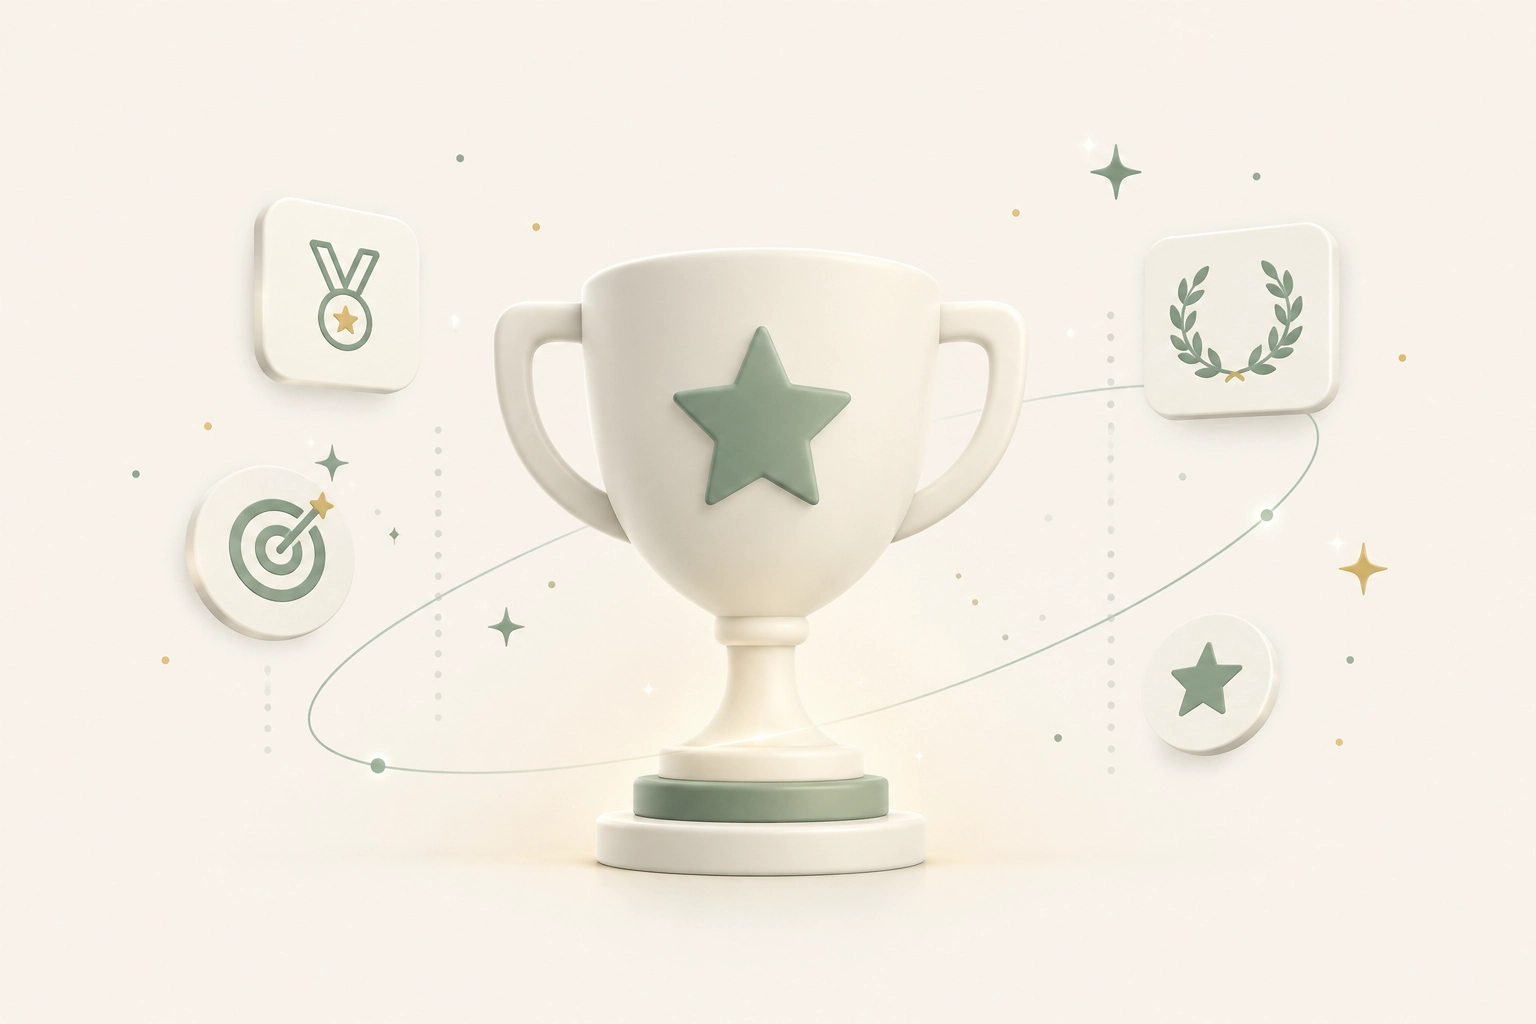
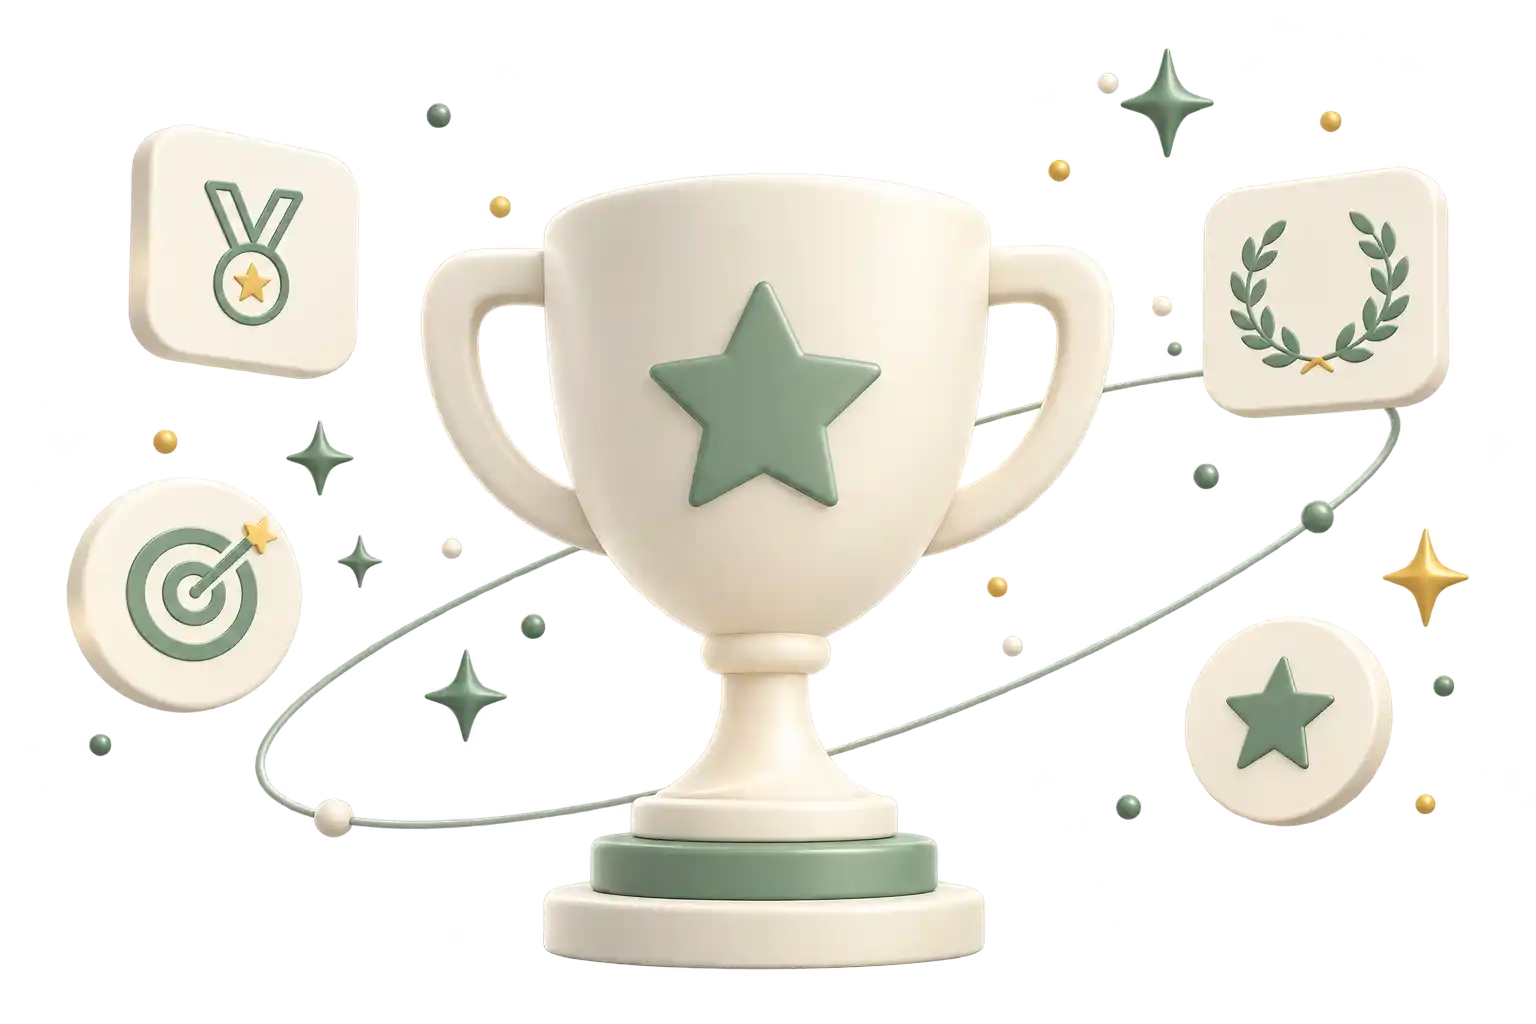
feat: enhance AchievementLearningGrid with search and filter functionality, update achievement data structure

diff --git a/src/data/achievementData.ts b/src/data/achievementData.ts
@@ -4,14 +4,20 @@ import type { HeaderData } from '@/types/header';
 import type { HeroImg } from '@/types/hero';
 import { Award, type LucideIcon } from 'lucide-react';
 import type { IconType } from 'react-icons/lib';
-import { IoDocumentTextOutline } from 'react-icons/io5';
+import {
+  IoBookOutline,
+  IoDocumentTextOutline,
+  IoExtensionPuzzleOutline,
+} from 'react-icons/io5';
 import { RxGear } from 'react-icons/rx';
-import { IoBookOutline } from 'react-icons/io5';
 import ahademy from '@/assets/images/certificates/ahademy.webp';
+
+type Category = 'roadmap' | 'setup' | 'logic' | 'reference';
 
 export interface Learning {
   id: string;
   title: string;
+  category: Category;
   description: string;
   linkNotion: string;
   tags?: string[];
@@ -64,7 +70,8 @@ export const achievementData: AchievementData = {
   learnings: [
     {
       id: 'learning-backend-typescript',
-      title: 'Backend — TypeScript',
+      title: 'Backend TypeScript',
+      category: 'roadmap',
       linkNotion:
         'https://app.notion.com/p/Learning-Backend-TypeScript-Version-37dda22dd34180889049e8d3dba8f8ce?source=copy_link',
       tags: ['Backend', 'TypeScript', 'Node.js'],
@@ -77,6 +84,7 @@ export const achievementData: AchievementData = {
     {
       id: 'learning-react-hook-form',
       title: 'React Hook Form',
+      category: 'roadmap',
       description:
         'Building forms in React, handling form, validation, and integration with Zod.',
       linkNotion:
@@ -87,20 +95,9 @@ export const achievementData: AchievementData = {
       accentColorDark: '#4A463D',
     },
     {
-      id: 'react-with-hary300',
-      title: 'React with Hary300',
-      description:
-        'Notes and exercises following the React with Hary300 learning series.',
-      linkNotion:
-        'https://app.notion.com/p/React-with-Hary300-35cda22dd34180e1ac79f54a763881db?source=copy_link',
-      tags: ['React', 'JavaScript', 'Course', 'Learning', 'Frontend'],
-      icon: IoDocumentTextOutline,
-      accentColor: '#8CA9FF',
-      accentColorDark: '#2B3C68',
-    },
-    {
       id: 'setup-typescript',
       title: 'Typescript Setup',
+      category: 'setup',
       description: 'A step-by-step guide to configuring TypeScript projects.',
       linkNotion:
         'https://app.notion.com/p/Setup-Typescript-37cda22dd3418049bc51c954bdad4ff2',
@@ -110,12 +107,13 @@ export const achievementData: AchievementData = {
       accentColorDark: '#6B4323',
     },
     {
-      id: 'logic-notes',
-      title: 'Logic Notes',
+      id: 'carousel-logic-notes',
+      title: 'Carousel Logic',
+      category: 'logic',
       description:
         'Notes and exercises for programming logic and problem solving.',
       linkNotion:
-        'https://app.notion.com/p/Logic-Notes-3ccda22dd341806693b9fb2783670fe3?source=copy_link',
+        'https://app.notion.com/p/Carousel-Logic-Notes-3ccda22dd341806693b9fb2783670fe3?source=copy_link',
       tags: [
         'Logic',
         'Algorithm',
@@ -123,13 +121,14 @@ export const achievementData: AchievementData = {
         'Learning',
         'Programming',
       ],
-      icon: IoBookOutline,
+      icon: IoExtensionPuzzleOutline,
       accentColor: '#BADFDB',
       accentColorDark: '#233835',
     },
     {
       id: 'setup-css',
       title: 'CSS initial setup',
+      category: 'setup',
       description: 'Initial CSS setup and global styling configuration',
       linkNotion:
         'https://app.notion.com/p/Global-Css-Initial-setup-3c9da22dd341803694fdc3ee5688dc9b?source=copy_link',
@@ -141,6 +140,7 @@ export const achievementData: AchievementData = {
     {
       id: 'api-documentation-swagger',
       title: 'Swagger',
+      category: 'roadmap',
       description: 'Documenting REST APIs using Swagger and OpenAPI',
       linkNotion:
         'https://app.notion.com/p/API-Documentation-with-Swagger-OpenAPI-3b0da22dd341808b8633c99c2308837a?source=copy_link',
@@ -152,6 +152,7 @@ export const achievementData: AchievementData = {
     {
       id: 'skeleton-height',
       title: 'Skeleton Height',
+      category: 'reference',
       description:
         'Converting font sizes (typography) into appropriate skeleton loader heights.',
       linkNotion:
@@ -164,6 +165,7 @@ export const achievementData: AchievementData = {
     {
       id: 'javascript-methods',
       title: 'JavaScript Methods',
+      category: 'reference',
       description:
         'Quick-reference cheat sheet of key JavaScript methods for everyday frontend work.',
       linkNotion:
@@ -175,7 +177,8 @@ export const achievementData: AchievementData = {
     },
     {
       id: 'svg-roadmap-react',
-      title: 'SVG Roadmap',
+      title: 'SVG',
+      category: 'roadmap',
       description:
         'Learning SVG: from core concepts to animation and optimization.',
       linkNotion:
@@ -186,8 +189,9 @@ export const achievementData: AchievementData = {
       accentColorDark: '#5A3B53',
     },
     {
-      id: 'roadmap-react-typescript-pemula-job-ready',
-      title: 'React TypeScript Notes',
+      id: 'roadmap-react-typescript',
+      title: 'React TypeScript',
+      category: 'roadmap',
       description:
         'Comprehensive roadmap and guide for beginners to become job-ready with React and TypeScript.',
       linkNotion:
@@ -205,8 +209,9 @@ export const achievementData: AchievementData = {
       accentColorDark: '#423A2B',
     },
     {
-      id: 'wpu-javascript',
+      id: 'basic-javascript',
       title: 'Basic JavaScript',
+      category: 'roadmap',
       description: 'Notes and exercises about basic Javascript.',
       linkNotion:
         'https://app.notion.com/p/WPU-JavaScript-302da22dd341807ca1cae243198d1cab?source=copy_link',
@@ -218,6 +223,7 @@ export const achievementData: AchievementData = {
     {
       id: 'javascript-advanced',
       title: 'Advanced JavaScript',
+      category: 'roadmap',
       description:
         'Notes and exercises on advanced JavaScript concepts and patterns.',
       linkNotion:
@@ -229,7 +235,8 @@ export const achievementData: AchievementData = {
     },
     {
       id: 'css3-notes',
-      title: 'CSS3 Notes',
+      title: 'CSS3',
+      category: 'roadmap',
       description: 'Notes and exercises following the CSS3 learning series.',
       linkNotion:
         'https://app.notion.com/p/WPU-CSS3-31dda22dd341805ea0b9e08cca003ba8?source=copy_link',
@@ -241,7 +248,8 @@ export const achievementData: AchievementData = {
 
     {
       id: 'css-notes',
-      title: 'CSS Notes',
+      title: 'CSS',
+      category: 'roadmap',
       description: 'Notes and exercises following the CSS learning series.',
       linkNotion:
         'https://app.notion.com/p/WPU-CSS-313da22dd34180cfba0cf9903e6d606c?source=copy_link',
@@ -252,7 +260,8 @@ export const achievementData: AchievementData = {
     },
     {
       id: 'html-notes',
-      title: 'HTML Notes',
+      title: 'HTML',
+      category: 'roadmap',
       description: 'Notes and exercises following the HTML learning series.',
       linkNotion:
         'https://app.notion.com/p/WPU-HTML-312da22dd34180349925f05b11146ee3?source=copy_link',

diff --git a/src/components/AchievementLearningGrid.tsx b/src/components/AchievementLearningGrid.tsx
@@ -1,13 +1,168 @@
 import { achievementData } from '@/data/achievementData';
 import AchievementLearningCard from './AchievementLearningCard';
+import { useSearchParams } from 'react-router-dom';
+import type { IconType } from 'react-icons/lib';
+import { IoMdGrid } from 'react-icons/io';
+import {
+  IoBookOutline,
+  IoDocumentTextOutline,
+  IoExtensionPuzzleOutline,
+  IoSearchSharp,
+} from 'react-icons/io5';
+import { RxGear } from 'react-icons/rx';
+import { cn } from '@/lib/utils';
+import { useForm } from 'react-hook-form';
+import { MdSearchOff } from 'react-icons/md';
+
+type FilterId = 'all' | 'roadmap' | 'setup' | 'logic' | 'reference';
+type FilterLabel = 'All' | 'Roadmap' | 'Setup' | 'Logic' | 'Reference';
+interface FilterTabs {
+  id: FilterId;
+  icon: IconType;
+  label: FilterLabel;
+}
+
+const filterIds: FilterId[] = ['all', 'logic', 'roadmap', 'setup', 'reference'];
+
+const isAchievementFilter = (value: string | null): value is FilterId => {
+  return value !== null && filterIds.includes(value as FilterId);
+};
+
+interface SearchForm {
+  keyword: string;
+}
 
 const AchievementLearningGrid = () => {
+  const { register, handleSubmit } = useForm<SearchForm>({
+    defaultValues: {
+      keyword: '',
+    },
+  });
+  const [searchParams, setSearchParams] = useSearchParams();
+  const querySearch = searchParams.get('search') ?? '';
+
+  const queryFilter = searchParams.get('filter');
+  const activeFilter = isAchievementFilter(queryFilter) ? queryFilter : 'all';
+
+  const onSubmit = (data: SearchForm) => {
+    const params = new URLSearchParams(searchParams);
+    if (data.keyword === '') {
+      params.delete('search');
+    } else {
+      params.set('search', data.keyword);
+    }
+    setSearchParams(params.toString());
+  };
+
+  const handleFilter = (slug: FilterId) => {
+    const params = new URLSearchParams(searchParams);
+
+    params.set('filter', slug);
+
+    setSearchParams(params, { preventScrollReset: true });
+  };
+
+  const filterTabs: FilterTabs[] = [
+    {
+      id: 'all',
+      icon: IoMdGrid,
+      label: 'All',
+    },
+    {
+      id: 'roadmap',
+      icon: IoDocumentTextOutline,
+      label: 'Roadmap',
+    },
+    {
+      id: 'setup',
+      icon: RxGear,
+      label: 'Setup',
+    },
+    {
+      id: 'logic',
+      icon: IoExtensionPuzzleOutline,
+      label: 'Logic',
+    },
+    {
+      id: 'reference',
+      icon: IoBookOutline,
+      label: 'Reference',
+    },
+  ];
+
   const achievementItems = achievementData.learnings;
+
+  const filteredItems = achievementItems.filter((item) => {
+    const keyword = querySearch.toLowerCase();
+
+    const matchesFilter =
+      activeFilter === 'all' || item.category === activeFilter;
+
+    const matchesSearch =
+      item.title.includes(keyword) ||
+      item.description.includes(keyword) ||
+      item.tags?.some((tag) => tag.toLowerCase().includes(keyword));
+
+    return matchesFilter && matchesSearch;
+  });
+
   return (
-    <div className='grid grid-cols-1 md:grid-cols-2 xl:grid-cols-3 gap-4'>
-      {achievementItems.map((item, index) => (
-        <AchievementLearningCard key={item.id} number={index + 1} data={item} />
-      ))}
+    <div className='flex flex-col gap-8'>
+      <div className='flex flex-col md:flex-row gap-4 md:items-center md:justify-between '>
+        <div className='md:min-w-75 md:max-w-100 flex gap-1 flex-wrap w-full'>
+          {filterTabs.map((tab) => {
+            const Icon = tab.icon;
+            return (
+              <div
+                key={tab.id}
+                className={cn(
+                  'flex-1 flex flex-col gap-1 p-2 rounded-lg border cursor-pointer justify-center items-center transition-transform duration-300 hover:-translate-y-0.5 active:translate-0 shadow-subtle',
+                  tab.id === activeFilter && 'text-portfolio-green'
+                )}
+                onClick={() => handleFilter(tab.id)}
+              >
+                <Icon />
+                <span className='text-xs'>{tab.label}</span>
+              </div>
+            );
+          })}
+        </div>
+        <form
+          onSubmit={handleSubmit(onSubmit)}
+          className='w-full md:max-w-60 lg:max-w-100 '
+        >
+          <div className='relative'>
+            <input
+              type='text'
+              placeholder='Enter your keyword'
+              {...register('keyword')}
+              className={cn(
+                'rounded-full border pl-8 py-2 xl:py-3 text-xs md:text-sm focus:outline-0 w-full shadow-subtle'
+              )}
+            />
+            <IoSearchSharp className='absolute top-1/2 -translate-y-1/2 left-3 text-gray-400' />
+          </div>
+        </form>
+      </div>
+
+      {filteredItems.length === 0 ? (
+        <div className='rounded-lg w-full flex justify-center items-center h-50 shadow-subtle'>
+          <div className='flex flex-col gap-2 justify-center items-center'>
+            <MdSearchOff className='size-20 text-portfolio-gray-muted' />
+            <p className='text-portfolio-gray-muted'>No Data Found</p>
+          </div>
+        </div>
+      ) : (
+        <div className='grid grid-cols-1 md:grid-cols-2 xl:grid-cols-3 gap-4'>
+          {filteredItems.map((item, index) => (
+            <AchievementLearningCard
+              key={item.id}
+              number={index + 1}
+              data={item}
+            />
+          ))}
+        </div>
+      )}
     </div>
   );
 };
